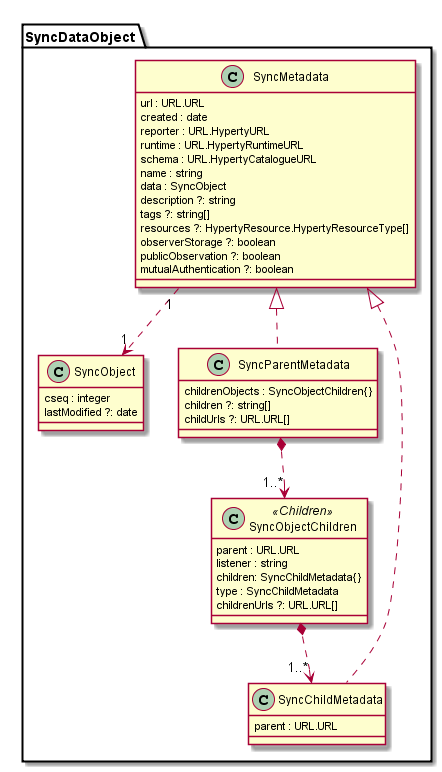
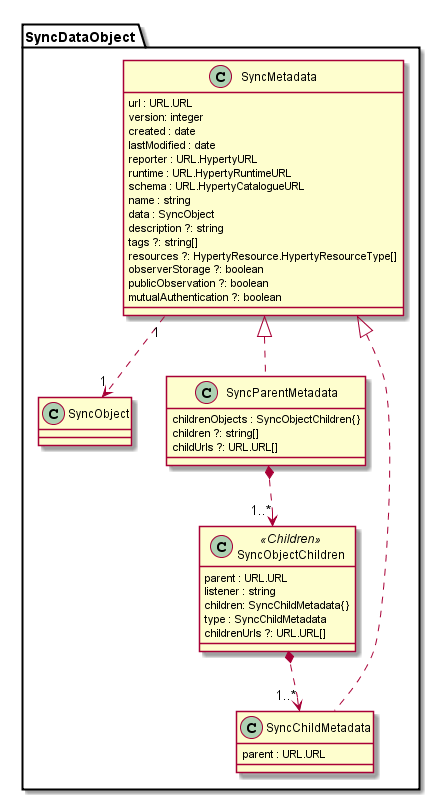
data sync model: moved lastModified to Metadata Communication data model: removed attributes that are already in the SyncMetadata

Changed region(s): [[0.0302, 0.0311, 0.9977, 0.9948], [0.8767, 0.6218, 0.907, 0.8083]]

diff --git a/datamodel/core/data-synch/readme.md b/datamodel/core/data-synch/readme.md
@@ -7,6 +7,10 @@ The SyncDataObject Model is used to specify the JSON format used in the [Reporte
 
 #### SyncObject
 
+Is the abstract class for any data object to be synchronized.
+
+#### SyncMetadata
+
 Is the abstract class for any data object to be synchronized. It contains metadata about the object to be synchronised and the data itself.
 
 **url** is the DataObject URL which scheme is defined in the json-schema descriptor of the DataObject
@@ -15,9 +19,13 @@ Is the abstract class for any data object to be synchronized. It contains metada
 
 **schema** contains the CatalogueURL for the JSON Schema describing the Sync Object
 
-**runtimeUrl** contains the RuntimeURL where the Sync Object is hosted
+**runtime** contains the RuntimeURL where the Sync Object is hosted
 
 **created** data object creation time
+
+**lastModified** last time the data object was changed
+
+**version** is an integer that is incremented every time the object is updated. To be used to order changes in the object when needed. Useful when sync streams are resumed by Observers.
 
 **name** is an identifier of the Data Object that is used for discovery purposes
 
@@ -33,31 +41,27 @@ Is the abstract class for any data object to be synchronized. It contains metada
 
 **mutualAuthentication** is a boolean used by the Policy Engine to decide if the Object sync data flows should be encrypted (true) or not (false).
 
+
 #### SyncData
 
-Is the abstract class for the actual data to be synchronized. Besides the real data to be synchronised it contains:
+Is the abstract class for the actual data to be synchronized.
 
-**lastModified** last time the data object was changed
+#### SyncParentMetadata
 
-**cseq** is an integer that is incremented every time the object is updated. To be used to order changes in the object when needed. Useful when sync streams are resumed by Observers.
-
-
-#### SyncObjectParent
-
-Is an Abstract class for composite SyncObject. It can either contain a set of containers of Childs called  SyncObjectChildren or a list of Childs (SyncOjectChild).
-
-
+Is an Abstract class for composite SyncMetadata. It contains one or more containers of Childs called childrenObjects of type SyncObjectChildren.
 
 #### SyncObjectChildren
 
-Contains the **children** attribute that is a list of SyncObjectChild URLs
+Contains a collection of SyncChildMetadata objects as **children** attribute.
 
 #### SyncObjectChild
 
-Is a SyncObject that can be created by an observer of the SyncObjectParent.
+Is a SyncMetadata that can be created by an observer of the SyncParent.
 
-The **url** attribute inherited from SyncDataObject class contains, `<SyncObjectParentURL>/children/<childreName>/<reporter-instance-indentifier>#<cseq>` where,
+The **url** attribute inherited from SyncDataObject class contains, `<SyncObjectParentURL>/children/<childreName>/<reporter-instance-indentifier>#<childId>` where,
 
  `<reporter-instance-indentifier>` is the path from the Hyperty URL of the Reporter, ie the creator, of the SyncObjectChild. Note that HypertyURL is `hyperty://<domain>/<reporter-instance-indentifier`.
 
- `<cseq>` is an integer that is incremented everytime a new SyncObjectChild is create by the same Hyperty.
+ `<childId>` is an integer that is incremented everytime a new SyncObjectChild is create by the same Hyperty.
+
+The **parent** attribute contains the SyncParentMetadata url.

diff --git a/datamodel/data-objects/communication/readme.md b/datamodel/data-objects/communication/readme.md
@@ -6,19 +6,11 @@ The Communication Data Model is used to model the reTHINK Communications.
 
 **starting time:** when communication is opened the first time
 
-**last modified:** last change in the communication like new participant added or last message sent
-
 **duration:** period of time between the first "OPEN" status and the last "CLOSED" status.
 
 **status:** status of the communication. See CommunicationStatus below
 
 **participants:** list of participants in the Communication (see below)
-
-**qos:** *to be provided*
-
-**resources:** list of HypertyResourceTypes supported by the communication. See below
-
-**children = ["resources"]:** defines the Communication children (SyncObjectChildren) where all HypertyResources are shared DataObjectChild of a Communication.
 
 
 #### CommunicationStatus
@@ -39,16 +31,8 @@ Parent Communication Data Object:
 
 ```
 {
-  "url" : "comm://mydomain/1234-qwert",
-  "cseq" : 2,
-  "reporter" : "hypert://mydomain/56789-gfdjhlfdf",
-  "schema" : "hyperty-catalogue://catalogue.mydomain/.well-known/dataschema/communication",
-  "name" : "vacations plan",
-  "created" : "Thu Mar 02 2017 16:30:09 GMT+0000",
   "startingTime" : "Thu Mar 02 2017 16:32:19 GMT+0000",
-  "lastModified" : "Thu Mar 02 2017 17:23:43 GMT+0000",
   "status" : "open",
-  "children" : ["resources"],
   "participants" : {
     "user://myidp/me@mail.com" : {
       "identity" : { ... }
@@ -74,12 +58,6 @@ Chat Message Example:
 
 ```
 {
-  "url" : "comm://mydomain/1234-qwert/children/resources/56789-gfdjhlfdf#3",
-  "cseq" : 2,
-  "reporter" : "hypert://mydomain/56789-gfdjhlfdf",
-  "schema" : "hyperty-catalogue://catalogue.mydomain/.well-known/dataschema/communication",
-  "name" : "some chat message name",
-  "created" : "Thu Mar 02 2017 16:36:09 GMT+0000",
   "type" : "chat",
   "content" : "hello, this is my message"
 }
@@ -89,14 +67,8 @@ File Example:
 
 ```
 {
-  "url" : "comm://mydomain/1234-qwert/children/resources/56789-gfdjhlfdf#2",
-  "cseq" : 1,
-  "reporter" : "hypert://mydomain/56789-gfdjhlfdf",
-  "schema" : "hyperty-catalogue://catalogue.mydomain/.well-known/dataschema/communication",
-  "name" : "My favourite city",
   "type" : "file",
   "mimetype" : "image/jpeg"
-  "created" : "Thu Mar 02 2017 18:36:09 GMT+0000",
   "content" : "ÿØÿàJFIFHHÿáÒExifMM*.."
 }
 ```

diff --git a/messaging-framework/p2p-data-sync.md b/messaging-framework/p2p-data-sync.md
@@ -5,7 +5,7 @@ This document gives an overview on how Hyperties cooperate with each other throu
 
 While the [Protocol on-the-fly](protofly.md) provides transport interoperability without requiring the standardization of messaging protocols, the Reporter - Observer communication pattern enables semantic interoperability between Services without having to standardize Service APIs.
 
-It extends existing Observable communication patterns \cite{rx} by using a P2P data stream synchronization solution for programmatic Objects e.g. JSON Objects, hereafter simply called Data Objects.
+It extends existing Observable communication patterns by using a P2P data stream synchronization solution for programmatic Objects e.g. JSON Objects, hereafter simply called Data Objects.
 
 To avoid concurrency inconsistencies among peers, only one peer is granted writing permissions to the Data Object - the Reporter service - and all the other service instances only have permissions to read the Data Object - the Observers.
 
@@ -21,7 +21,7 @@ To be noted that, conceptually, more complex semantic interoperability and data 
 ### Data Object URL address
 
 Data Objects addresses follow [Information-centric networking](https://irtf.org/icnrg) design principles to support Data Object portability (between Communication end-points) and group communication.
-These characteristics are supported by the usage virtual addresses separately allocated to Data Objects, which are agnostic of the network addresses and the execution environment.
+These characteristics are supported by the usage of virtual addresses separately allocated to Data Objects, which are agnostic of the network addresses and the execution environment.
 
 
 ### Data Object Schema
